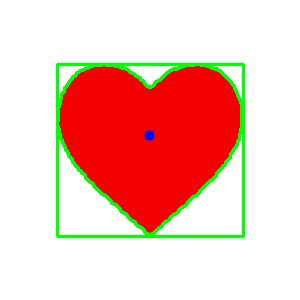
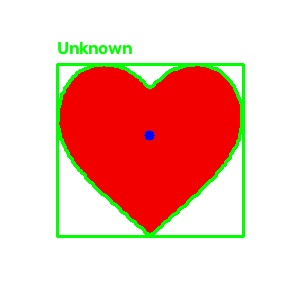
Aspect Ratio + Shape Approximation

Changed region(s): [[0.18, 0.12, 0.45, 0.18]]

diff --git a/main.py b/main.py
@@ -21,6 +21,7 @@ masked_result = cv2.bitwise_and(
     mask=mask,
 )
 
+
 ####? Coordinates for rectangle ######
 #?
 #1. Create a copy of the resized image
@@ -46,16 +47,7 @@ bottom_right = (3 * width // 4, 3 * height // 4)
 #5 
 # x1, y1 = top_left
 
-# cv2.putText(
-#     copy_image,                 # Image 
-#     "person",                  # TEXT wanted to display
-#     (x1, max(20, y1 - 10)),      # PLACE text above the rectangle
-#     cv2.FONT_HERSHEY_SIMPLEX,    # Font
-#     0.6,                        # Text size
-#     (0, 255, 0),                # Text color (BGR)
-#     2,                          # Text thickness
-#     cv2.LINE_AA                
-# )
+
 ########?
 
 ####? Coordinates for rectangle
@@ -122,9 +114,32 @@ for contour in contours:
         -1
     )
 
+aspect_ratio = width / height
+print("Aspect ratio:", aspect_ratio)
 
+epsilon = 0.02 * perimeter
+approx = cv2.approxPolyDP(contour, epsilon, True)
+corners = len(approx)
+if corners == 3:
+    shape_name = "Triangle"
+elif corners == 4:
+    shape_name = "Rectangle"
+elif corners > 8:
+    shape_name = "Circle-like"
+else:
+    shape_name = "Unknown"
 
 #####
+cv2.putText(
+    copy_image,                 # Image 
+    shape_name,                  # TEXT wanted to display
+    (x, max(20, y - 10)),      # PLACE text above the rectangle
+    cv2.FONT_HERSHEY_SIMPLEX,    # Font
+    0.6,                        # Text size
+    (0, 255, 0),                # Text color (BGR)
+    2,                          # Text thickness
+    cv2.LINE_AA                
+)
 
 #####? Canny threshold( gradient strength brightness#######
 #
